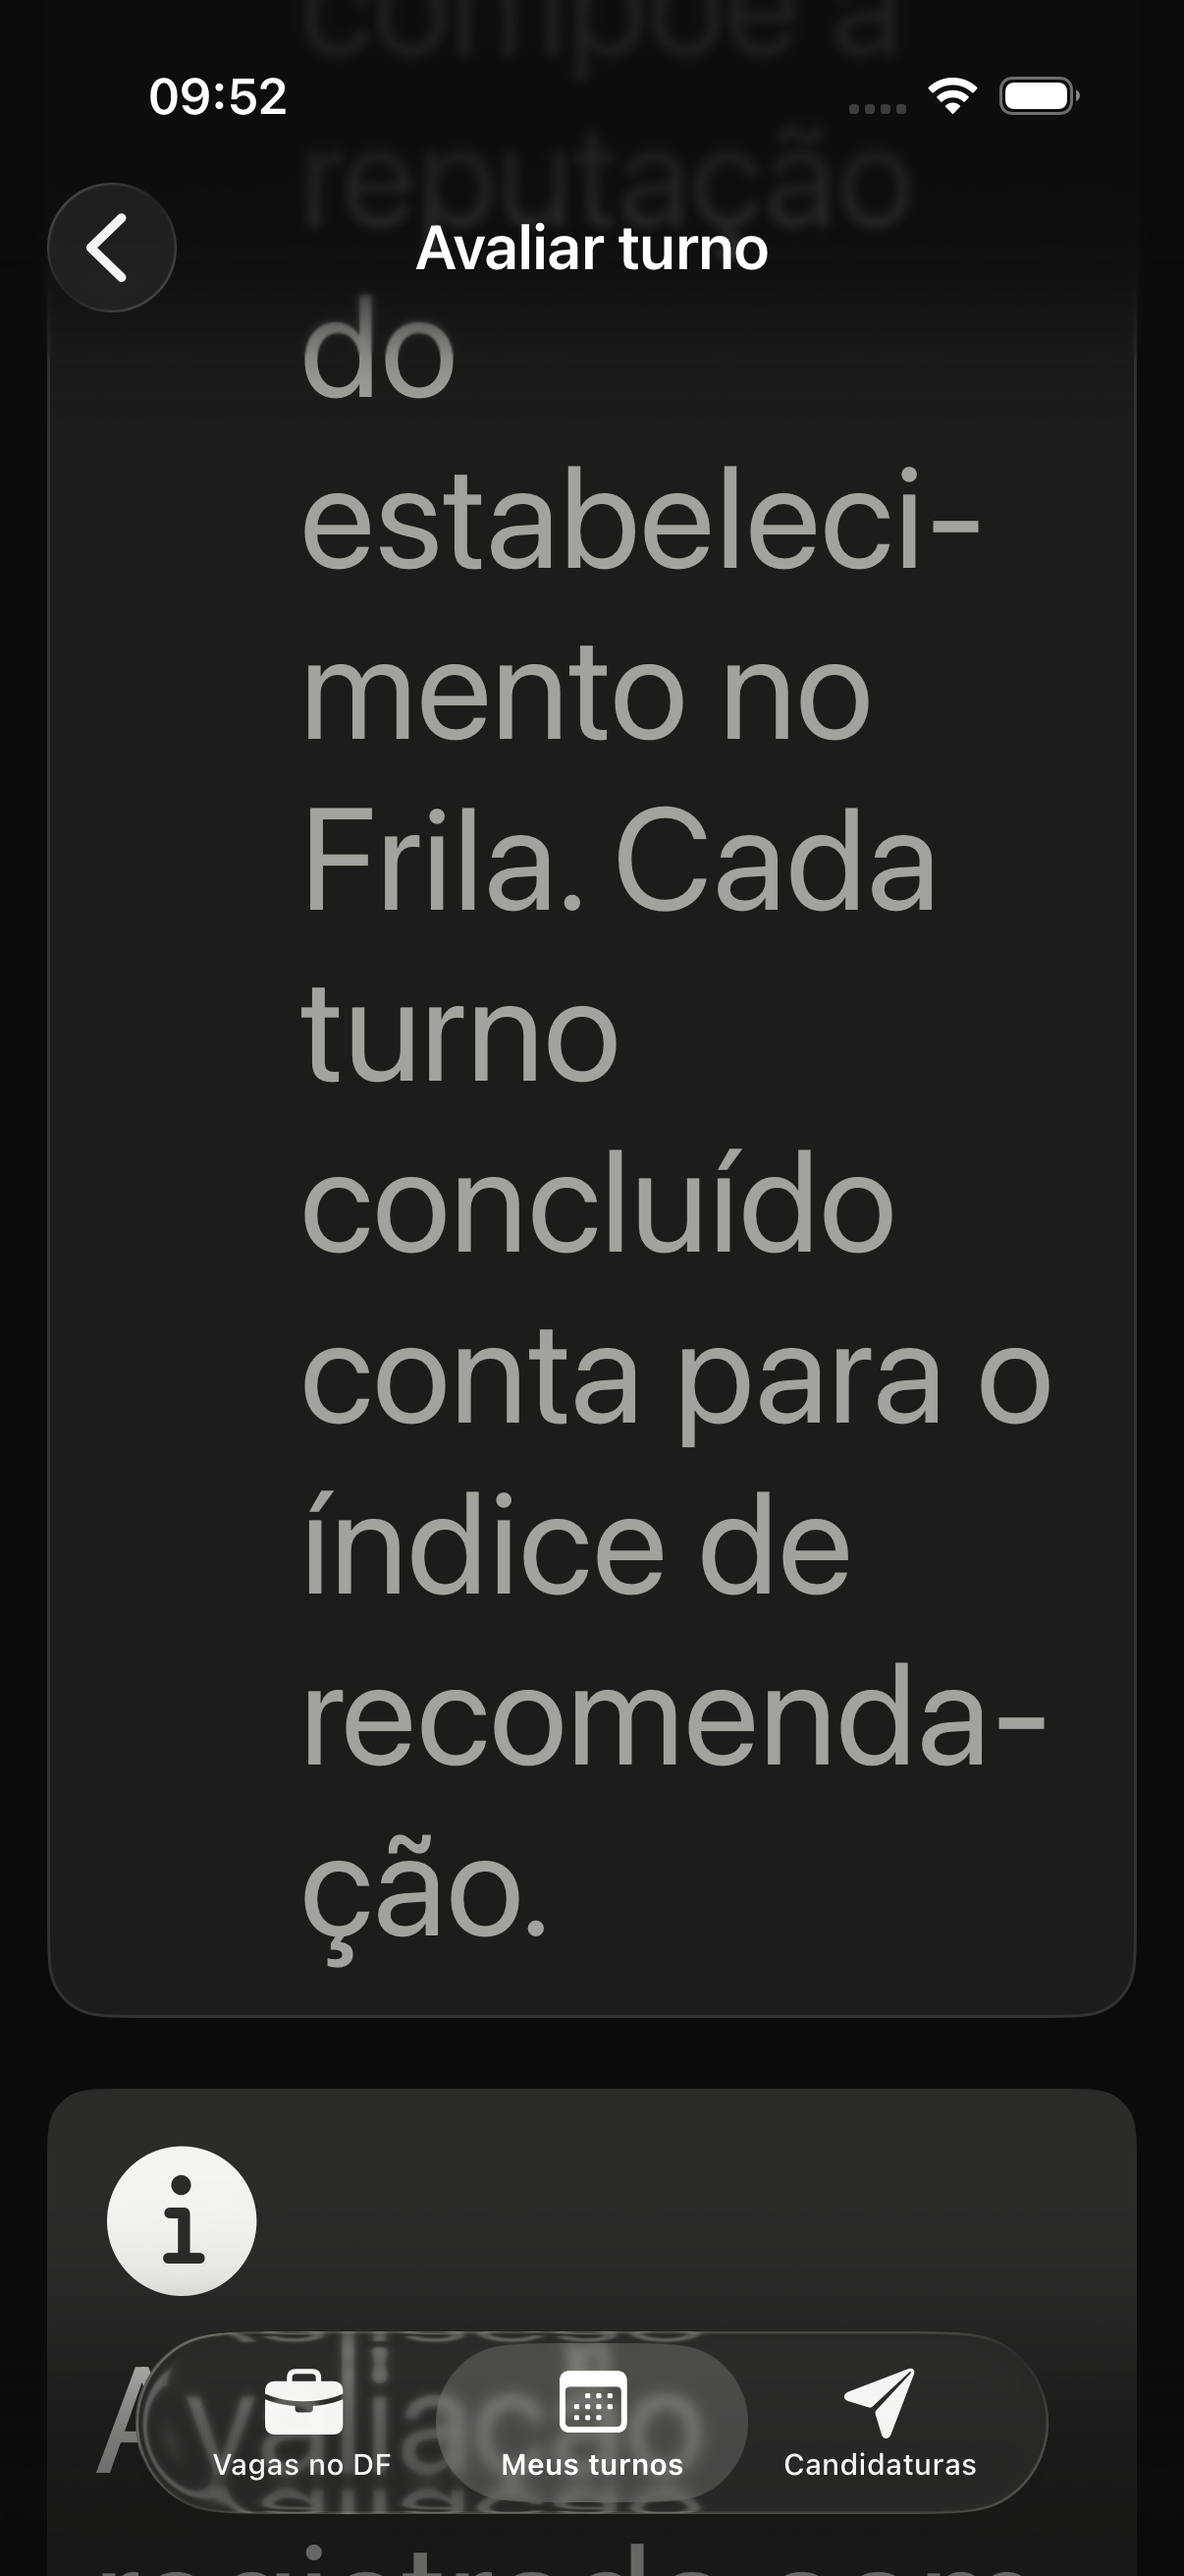
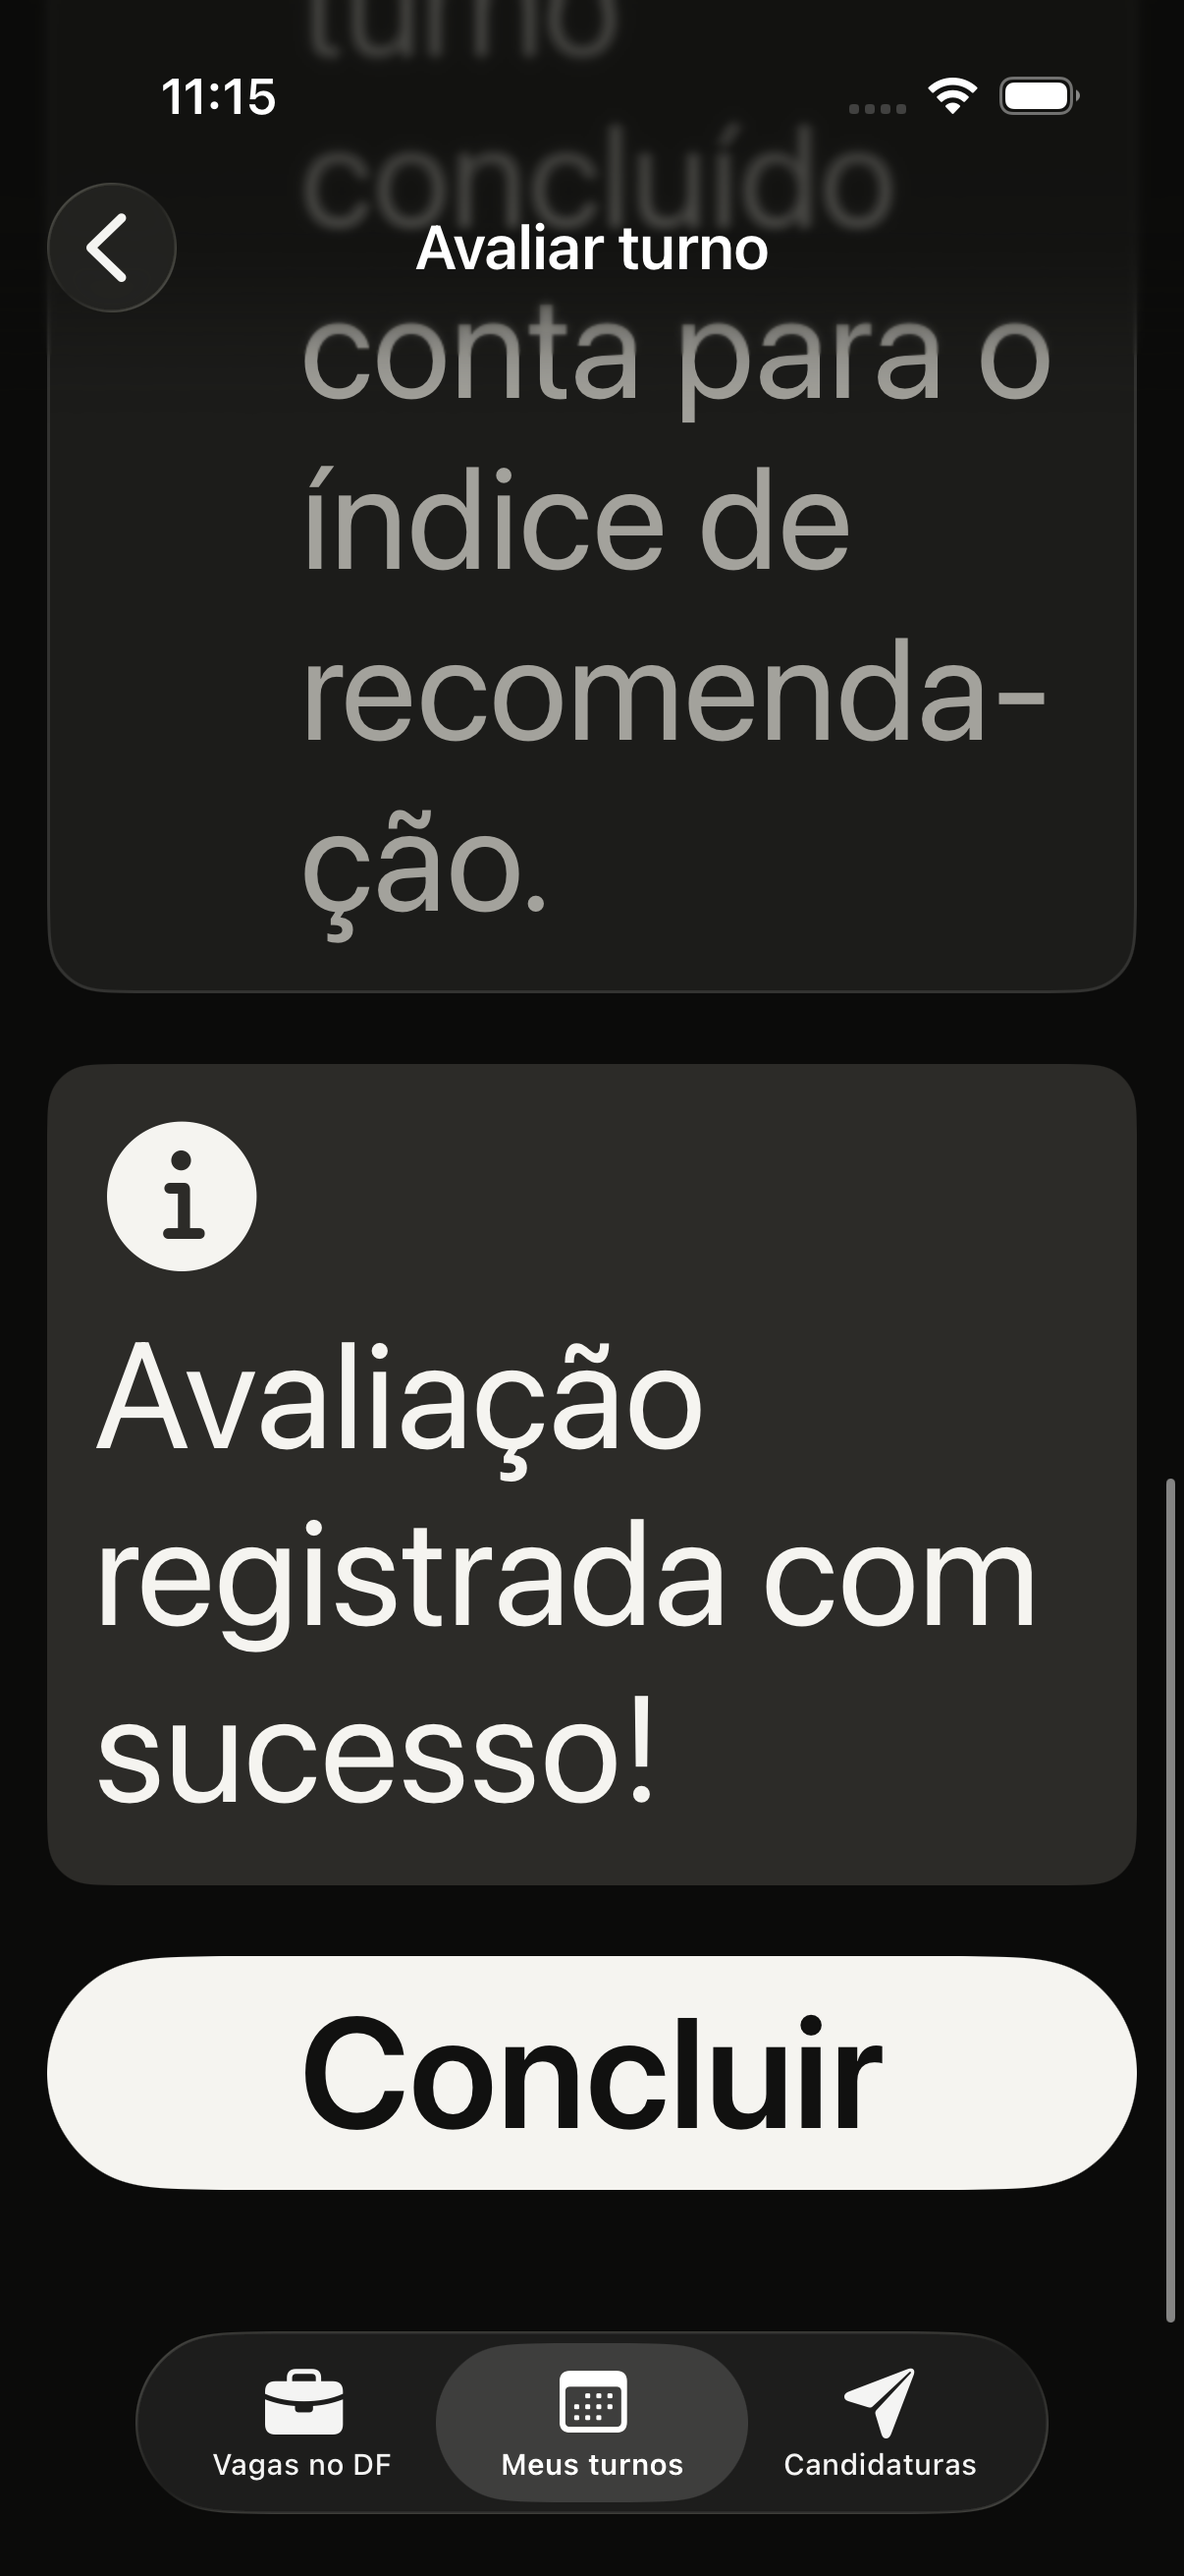
fix(ux-05): botoes rolaiveis no cancelamento AX5, texto Confirmar sem hifenizacao e capturas atualizadas

diff --git a/iOS/Sources/Apresentacao/Fluxos/Cancelamento/FolhaDeCancelamento.swift b/iOS/Sources/Apresentacao/Fluxos/Cancelamento/FolhaDeCancelamento.swift
@@ -8,6 +8,7 @@ public struct FolhaDeCancelamento: View {
     @Bindable private var viewModel: CancelamentoViewModel
     private let fechar: () -> Void
     @FocusState private var focoNosDetalhes: Bool
+    @Environment(\.dynamicTypeSize) private var dynamicTypeSize
 
     public init(viewModel: CancelamentoViewModel, fechar: @escaping () -> Void) {
         self.viewModel = viewModel
@@ -21,14 +22,22 @@ public struct FolhaDeCancelamento: View {
                     switch viewModel.estado {
                     case .pronto, .enviando, .falha:
                         formulario
+                        if dynamicTypeSize.isAccessibilitySize {
+                            botoesDeAcao
+                        }
                     case let .concluido(desfecho):
                         desfechoView(desfecho)
+                        if dynamicTypeSize.isAccessibilitySize {
+                            botoesDeAcao
+                        }
                     }
                 }
             }
             .scrollDismissesKeyboard(.interactively)
             .safeAreaInset(edge: .bottom) {
-                botoesDeAcao
+                if !dynamicTypeSize.isAccessibilitySize {
+                    botoesDeAcao
+                }
             }
             .toolbar {
                 ToolbarItemGroup(placement: .keyboard) {
@@ -117,15 +126,15 @@ public struct FolhaDeCancelamento: View {
                     .disabled(viewModel.estado == .enviando)
                     .accessibilityIdentifier("voltar-do-cancelamento")
             }
-            .padding(FrilaEspaco.medio)
-            .background(FrilaCor.fundo)
+            .padding(dynamicTypeSize.isAccessibilitySize ? 0 : FrilaEspaco.medio)
+            .background(dynamicTypeSize.isAccessibilitySize ? Color.clear : FrilaCor.fundo)
         case .concluido:
             VStack(spacing: FrilaEspaco.pequeno) {
                 BotaoPrimario(verbatim: TextosDoCancelamento.fechar, acao: fechar)
                     .accessibilityIdentifier("fechar-cancelamento")
             }
-            .padding(FrilaEspaco.medio)
-            .background(FrilaCor.fundo)
+            .padding(dynamicTypeSize.isAccessibilitySize ? 0 : FrilaEspaco.medio)
+            .background(dynamicTypeSize.isAccessibilitySize ? Color.clear : FrilaCor.fundo)
         }
     }
 

diff --git a/iOS/Sources/Apresentacao/Fluxos/Cancelamento/TextosDoCancelamento.swift b/iOS/Sources/Apresentacao/Fluxos/Cancelamento/TextosDoCancelamento.swift
@@ -11,7 +11,7 @@ enum TextosDoCancelamento {
     static let detalhesTitulo = String(localized: "Quer explicar melhor? (opcional)", bundle: bundleApresentacao)
     static let detalhesObrigatorios = String(localized: "Descreva o motivo (pelo menos 3 caracteres)", bundle: bundleApresentacao)
     static let placeholderDetalhes = String(localized: "Descreva o motivo do cancelamento", bundle: bundleApresentacao)
-    static let confirmar = String(localized: "Confirmar cancelamento", bundle: bundleApresentacao)
+    static let confirmar = String(localized: "Confirmar", bundle: bundleApresentacao)
     static let voltar = String(localized: "Voltar", bundle: bundleApresentacao)
     static let fechar = String(localized: "Fechar", bundle: bundleApresentacao)
     static let ok = String(localized: "OK", bundle: bundleApresentacao)

diff --git a/iOS/Sources/Apresentacao/Fluxos/Profissional/TelaAvaliacao.swift b/iOS/Sources/Apresentacao/Fluxos/Profissional/TelaAvaliacao.swift
@@ -45,6 +45,7 @@ public struct TelaAvaliacao: View {
                 botaoDeAcao
             }
             .padding(FrilaEspaco.medio)
+            .padding(.bottom, FrilaEspaco.enorme)
         }
         .background(FrilaCor.fundo)
         .navigationTitle(Text(verbatim: TextosDoProfissional.Avaliacao.titulo))
